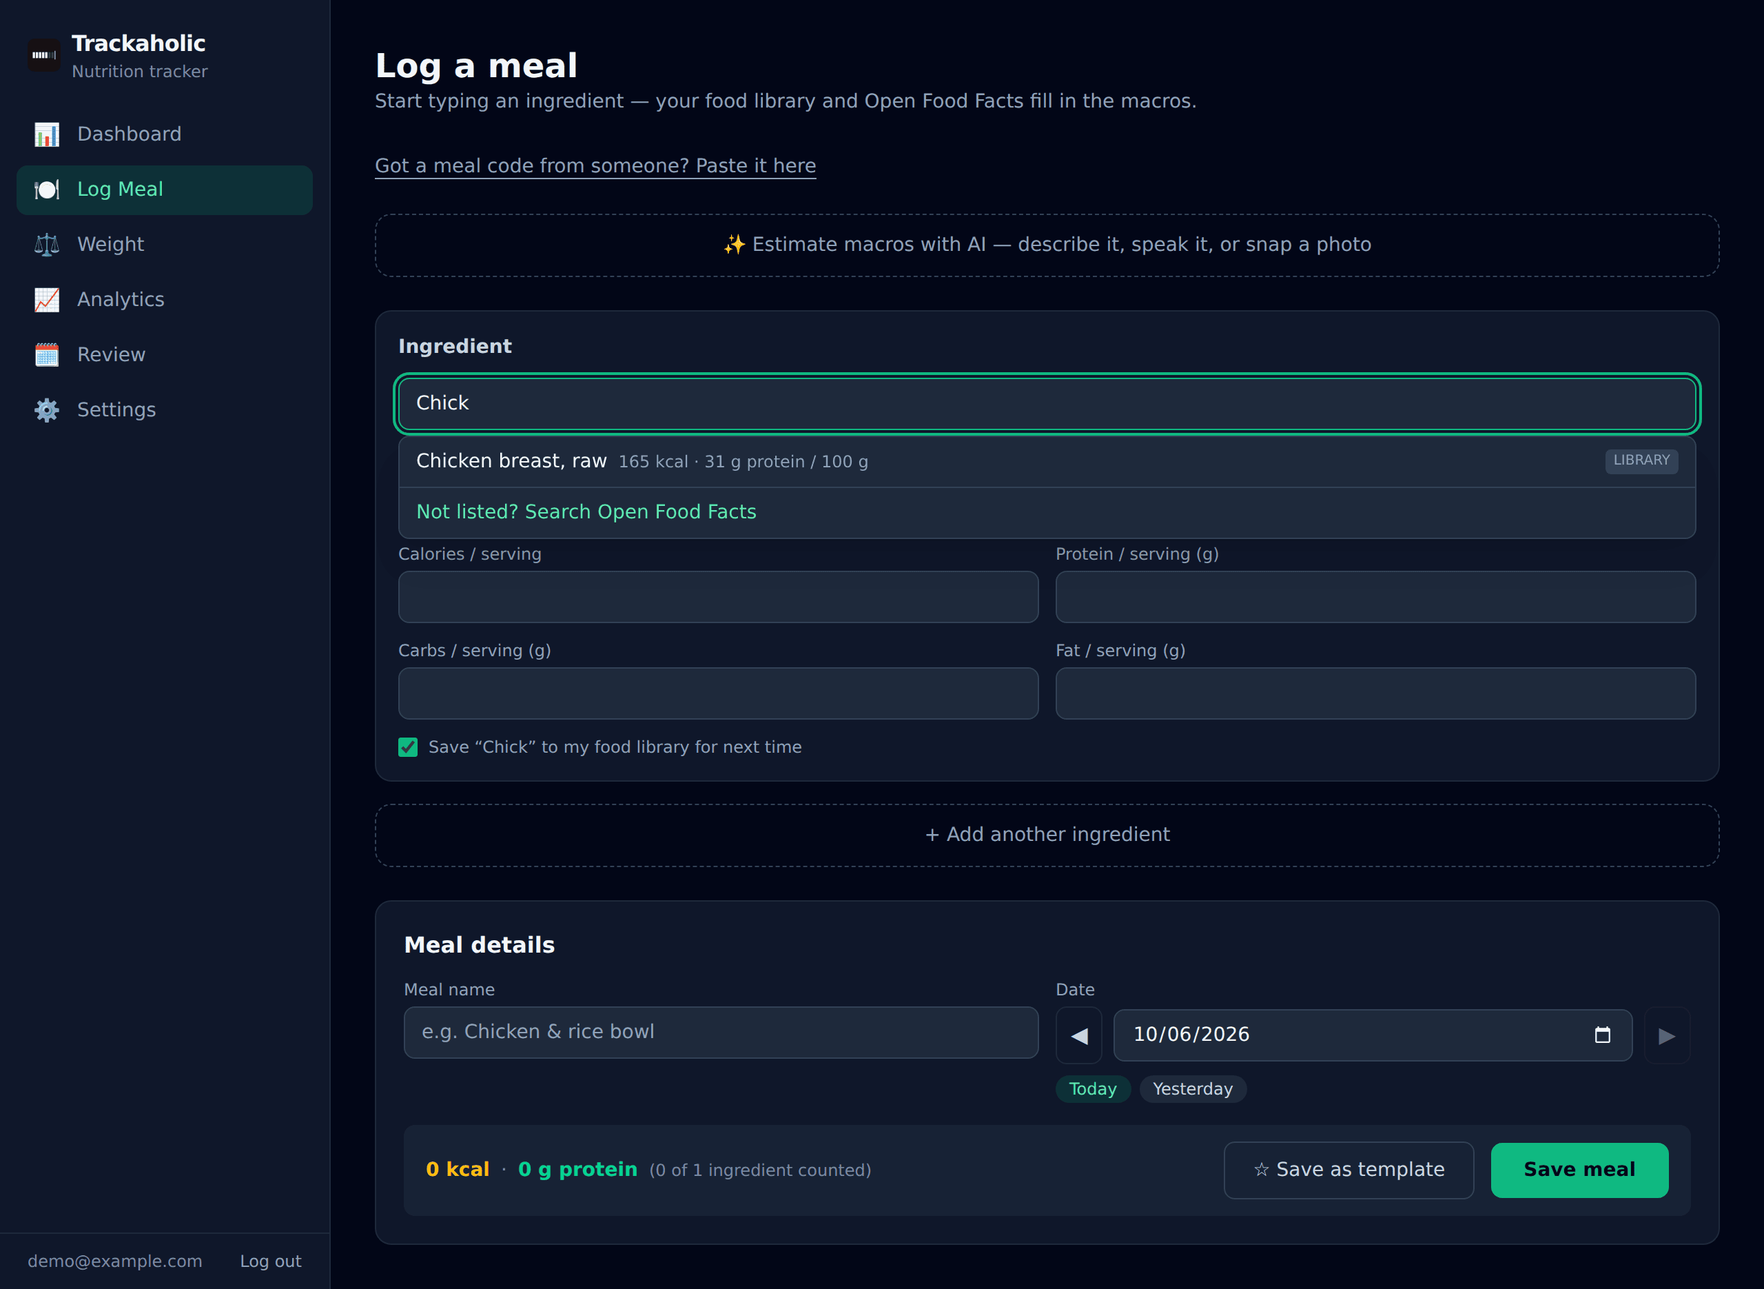
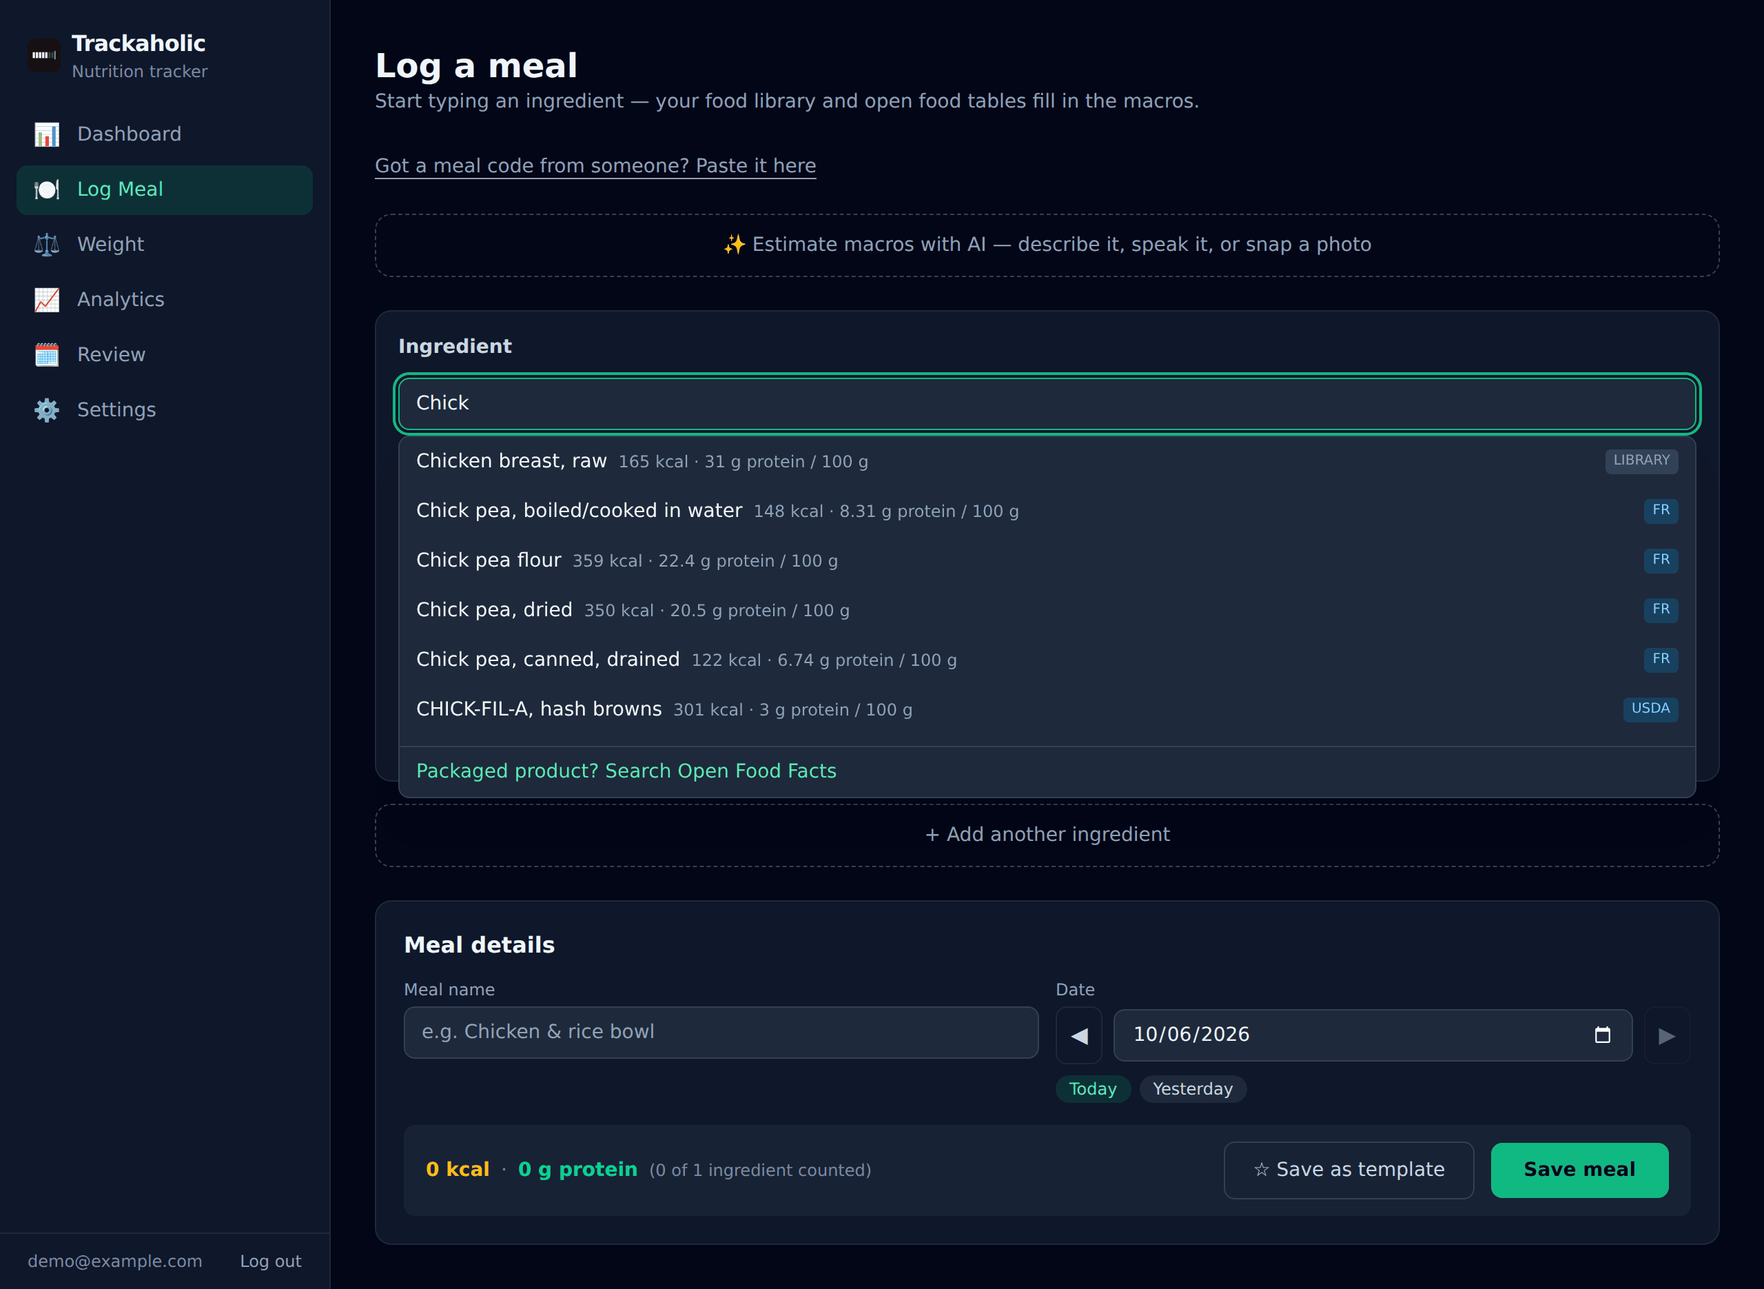
docs: describe the food-table search, and retake the log-meal shots
The README's feature list, intro and log-meal caption now describe the
three-tier search: the library and five national food tables as you
type, Open Food Facts on request. Library bullets that said OFF picks
are cached automatically say they were until October 2026; picks now
offer "save to library" unticked. A privacy bullet notes that search
text is kept out of the logs.

New "Food data sources" section with each table's publisher, licence
and required credit. The architecture box, file tree and API table
(checked against the app's OpenAPI paths: 55 and 55) include the
reference search. Both log-meal screenshots are retaken, since the
dropdown now shows table rows and the new OFF wording.

diff --git a/README.md b/README.md
@@ -17,7 +17,7 @@ A full-stack, **multi-user** nutrition tracking app: a **React + TypeScript** da
 
 Sign up with an email and password and get your own private meal log, food library, goals, and AI analyses — every API endpoint is scoped to the authenticated user.
 
-Log meals by typing an ingredient name — macros auto-fill from your personal **food library**, with an **Open Food Facts** lookup as fallback for foods you haven't logged before. Or skip the form entirely: **describe your meal, record a voice note, or photograph it** — any one is enough — and let **AI estimate the macros** — with honest uncertainty ranges and editable assumptions — before you review and save. Track calories and protein (plus carbs and fat if you enable them), set daily goals, weigh in, and watch progress rings, trend charts and a computed weekly review update as you log.
+Log meals by typing an ingredient name — macros auto-fill as you type from your personal **food library** and from **five open national food tables** (USDA, UK, France, Australia, Canada), with an **Open Food Facts** lookup for packaged products. Or skip the form entirely: **describe your meal, record a voice note, or photograph it** — any one is enough — and let **AI estimate the macros** — with honest uncertainty ranges and editable assumptions — before you review and save. Track calories and protein (plus carbs and fat if you enable them), set daily goals, weigh in, and watch progress rings, trend charts and a computed weekly review update as you log.
 
 > **v2 rewrite:** this project started as a Streamlit app and was rebuilt with a decoupled frontend/backend architecture. The original app lives in [`legacy/`](legacy/).
 
@@ -30,6 +30,7 @@ Log meals by typing an ingredient name — macros auto-fill from your personal *
 - **Per-user everything**: meals, food library, saved meal templates, weight entries, water logs, step counts, supplements and their check-offs, calorie plans, goals/settings, and AI analyses are isolated per account — enforced on every query, verified by a dedicated cross-tenant test suite
 - **Layered AI quotas**: 12 analyses + 16 voice notes + 3 review summaries per user per day, under a **global ceiling** of 40 calls/day across every account — sized for Gemini's free tier of 20 requests a day per model, and checked against the heaviest real user's busiest days. The per-user caps stop one person using up the shared quota, the global one stops mass signups draining it (or running up a bill on a paid key). All of them are env-tunable
 - **What the AI sees**: your photos, voice note and description are sent to Google Gemini to estimate the meal, and the app says so beside the Analyze button. Photos are shrunk on your phone first, which also strips their location data, and only the text of the estimate is kept: the photo and audio are discarded. On Gemini's free tier, Google may use what it is sent to improve its products
+- **What you search for is not logged**: the food searches send what you type as a URL parameter, and both the server's access log and its outgoing-request log blank that value before writing the line. The app's own log lines count results and time them, never the text
 - **Own your data**: change your password (revokes all previously issued tokens), download everything as JSON, or permanently delete your account from Settings
 - **Password reset by email — built, deployed, and switched off.** The endpoints, the single-use link (hashed at rest, valid an hour, revoking every session when used) and 38 tests are all here and running in production. They answer **503 to every address**, because no email provider is configured — three free providers were tried and all three refused a domainless free account, which is the profile their fraud screening targets. Until one is wired up **a forgotten password means a lost account**, and the signup page says so rather than letting you find out later. Nothing about the feature needs a deploy to switch on; it activates on credentials alone
 
@@ -59,11 +60,13 @@ Log meals by typing an ingredient name — macros auto-fill from your personal *
 - **Spends the daily AI allowance carefully.** Google's free tier turned out to be 20 requests a day *per model* for the whole app, counting failed attempts, about 25 times less than the app had been configured for. So each action makes at most a few attempts, and starts another only if there is still time for it to answer. A model that is out for the day is skipped, by reading Google's structured quota error rather than its wording, and the next model, which has a quota of its own, is asked straight away. When the day's AI really is gone, the message says when it comes back instead of "try again in a minute"
 
 ### 🍽 Smart meal logging
-- **Type-ahead food search**: ingredients you've logged before auto-fill their macros from your personal food library
-- **Open Food Facts fallback**: unknown foods can be looked up in the public OFF database (per-serving macros normalized automatically) and are cached locally for next time
-- **A food library you can edit**, not just accumulate — rename, correct or delete saved foods from Settings, filter by name, and sort by name or by when each one arrived. Correcting one that came from Open Food Facts makes it yours, so a later lookup can't overwrite your own numbers. Both lists show their first few rows with the rest a tap away, so the controls that act on them — the filter, and adding a food by hand — stay on the first screen instead of sitting below everything you have ever saved
-- **Every saved food is comparable, whatever it was saved against.** Macros are stored per the food's own serving size, which is what the packet says and useless for comparing two of them — 108 kcal per 90 g and 70 kcal per 50 g are the same food twice, and nothing about those two lines says so. Any row that is not already per 100 g now shows what it works out to, and a **Per 100 g** button rewrites it that way for good: it previews the figures first, and it **keeps the Open Food Facts badge**, because a rescale is the same claim in different units and corrects nothing
-- **It tells you when you have saved the same food twice.** The library fills itself up on its own — every Open Food Facts pick is cached, every ticked ingredient saved — so the same thing arrives under names nobody chose to make match. A pair is flagged only when the names overlap **and** the per-100 g calories and protein are close, because names alone would call "chicken breast" and "chicken thigh" duplicates. And it argues rather than acts: both rows are put side by side in the same units so you can see why, every delete is yours, and "not a duplicate" makes it stop asking
+- **Type-ahead food search, three tiers deep**: your own food library first, then **26,000 generic foods from five open national food tables** — USDA FoodData Central, the UK's CoFID, France's Ciqual, Australia's AFCD and the Canadian Nutrient File — both as you type. A new account with an empty library still finds "apple", "lentils" or "basmati rice" on the first keystrokes. Every row is badged with where its figures come from, per 100 g, and carbs are shown **without fibre** in every table, converted where a table publishes them with it
+- **Ranked for plain ingredients, not dishes**: the tables are searched in memory on the server with ranking of its own, because USDA's search API put croissants first for "green apple". "Apples, raw" beats "Croissants, apple", "Egg, fried" beats "Fried eggplant", a few regional and British names are understood ("arabic bread" finds pita, "moong dal" finds mung beans, "aubergine" finds eggplant), and a query no row fully matches falls back to its last word. Measured against 25 of the author's own everyday foods, **the plain food is in the top 3 for 92%**, and CI fails if a change drops that below 90%
+- **Open Food Facts for packaged products**, on request: one tap searches the public OFF database (per-serving macros normalized automatically). It is a button rather than part of the type-ahead because it is a slower third-party call on a shared rate limit
+- **Nothing is saved behind your back**: picking a table or Open Food Facts result fills the ingredient and offers "save to my food library", unticked. Saved, it keeps its source badge; change any of its numbers first and it is saved as yours
+- **A food library you can edit**, not just accumulate — rename, correct or delete saved foods from Settings, filter by name, and sort by name or by when each one arrived. Correcting one that came from Open Food Facts or a food table makes it yours, so the badge never claims figures you changed. Both lists show their first few rows with the rest a tap away, so the controls that act on them — the filter, and adding a food by hand — stay on the first screen instead of sitting below everything you have ever saved
+- **Every saved food is comparable, whatever it was saved against.** Macros are stored per the food's own serving size, which is what the packet says and useless for comparing two of them — 108 kcal per 90 g and 70 kcal per 50 g are the same food twice, and nothing about those two lines says so. Any row that is not already per 100 g now shows what it works out to, and a **Per 100 g** button rewrites it that way for good: it previews the figures first, and it **keeps the food's source badge**, because a rescale is the same claim in different units and corrects nothing
+- **It tells you when you have saved the same food twice.** The library fills up with little thought per entry — every ticked ingredient is saved, and Open Food Facts picks were cached automatically until October 2026 — so the same thing arrives under names nobody chose to make match. A pair is flagged only when the names overlap **and** the per-100 g calories and protein are close, because names alone would call "chicken breast" and "chicken thigh" duplicates. And it argues rather than acts: both rows are put side by side in the same units so you can see why, every delete is yours, and "not a duplicate" makes it stop asking
 - **Saved meals**: store a meal you eat often and re-log it in one tap from the dashboard
 - **Recently logged**: the dashboard offers the meals you actually logged recently, so anything you have eaten before can be re-logged without retyping it. It is the counterpart to saved meals rather than a duplicate of them — a saved meal had to be stored in advance, while this needs no forethought at all, which is the case it exists for. The list is one entry per meal *name*, carrying the most recent version of it and the day that came from, so logging “Breakfast” every morning does not fill the card with six Breakfasts. Tapping one opens the log form filled in, so the portion is still yours to change before it is saved. Meals you have already logged on the day you are looking at are moved to the end of the list rather than dropped from it — you can still have the same thing twice, but the card leads with what you have not had yet
 - **Share a meal by code**: turn a meal or a saved template into a short code, hand it to someone, and they get an **editable copy in their own account**. The code is a self-contained encoded payload — there is no shared row, no invite, nothing to revoke, and no account id inside it, so per-user isolation is untouched by the feature existing
@@ -173,7 +176,7 @@ Nothing is saved until you have looked at it. Ingredients arrive as ordinary row
 
 ### Log a meal
 
-Type an ingredient and your food library fills in the macros, with an Open Food Facts lookup behind it for anything you have not logged before.
+Type an ingredient and your food library fills in the macros, with generic foods from the national food tables listed under it as you type, and an Open Food Facts lookup for packaged products.
 
 <table>
 <tr><th align="center">Desktop</th><th align="center">Phone</th></tr>
@@ -292,8 +295,10 @@ icon, with a dark splash screen while it starts.
 ┌─────────────────────┐         ┌──────────────────────┐        ┌─────────────────┐
 │  React SPA / PWA    │  HTTP   │  FastAPI REST API    │        │ Open Food Facts │
 │  Tailwind, Recharts ├────────►│  /api/auth /meals    ├───────►│  public API     │
-│  React Router       │ Bearer  │  /foods /ai ...      │  httpx │  (fallback)     │
-└─────────────────────┘  JWT    └──────┬────────┬──────┘        └─────────────────┘
+│  React Router       │ Bearer  │  /foods /ai ...      │  httpx │  (packaged)     │
+└─────────────────────┘  JWT    │ + 5 food tables, in  │        └─────────────────┘
+                                │   memory (26k foods) │
+                                └──────┬────────┬──────┘
                                        │SQLAlchemy  google-genai ┌─────────────────┐
                                 ┌──────▼──────┐ └───────────────►│ Gemini 3.5 Flash│
                                 │  PostgreSQL │ users · meals    │ (meal analysis) │
@@ -325,6 +330,8 @@ Trackaholic
 │   │   ├── review.py            # the weekly review's arithmetic: eight checks, each with its own window
 │   │   ├── share.py             # the meal-code codec (a self-contained payload; no table)
 │   │   ├── announcements.py     # committed release notes + an env-var status banner
+│   │   ├── reference_foods.py   # the national food tables: loaded once, searched and ranked in memory
+│   │   ├── data/reference/      # one CSV per table (USDA, CoFID, Ciqual, AFCD, CNF) + NOTICE.md credits
 │   │   ├── routers/             # auth, meals, meal_templates, share, foods, weights, analytics,
 │   │   │                        #   settings, data (CSV/JSON), ai, water, steps, plan,
 │   │   │                        #   supplements, review, announcements, admin
@@ -334,6 +341,7 @@ Trackaholic
 │   │       └── email.py         # password-reset email (the only Brevo-aware module; switched off)
 │   ├── alembic/                 # database migrations (Postgres)
 │   ├── scripts/                 # smoke_multiuser.py — the live two-account isolation check
+│   │                            # reference/ — build_<table>.py per food table, and ranking_report.py
 │   │                            # delete_account_by_email.py — ops: remove an account whose password is gone
 │   │                            # compare_estimates.py — same photos through the real model in
 │   │                            #   several variants (sizes, models), against its own noise
@@ -355,7 +363,8 @@ Trackaholic
 │       ├── lib/                 # dates, parse, limits (mirrors the server's bounds), units,
 │       │                        #   chartTheme (one place for every recharts colour), libraryMatch,
 │       │                        #   photoSize + photoDownscale (shrink photos before upload),
-│       │                        #   analysisInputs (is a re-run of an estimate unchanged?)
+│       │                        #   analysisInputs (is a re-run of an estimate unchanged?),
+│       │                        #   foodSources (source badges, credits, the edited-number rule)
 │       └── pages/               # Dashboard, LogMeal, Weight, Analytics, Review, Admin,
 │                                #   WhatsNew, settings/ (five tab panels), and the four auth pages
 ├── docs/                        # AI provider runbook, the Gemini EEA-region incident write-up,
@@ -640,7 +649,7 @@ to anything else. That failure looks like a network error and never reaches the 
 
 ## 🔌 API overview
 
-54 paths. All of them require an `Authorization: Bearer <token>` header and operate
+55 paths. All of them require an `Authorization: Bearer <token>` header and operate
 only on the caller's data, except these public ones: `/api/health`,
 `/api/announcements`, `/api/auth/signup|login`, and
 `/api/auth/forgot-password|reset-password`.
@@ -671,6 +680,7 @@ only on the caller's data, except these public ones: `/api/health`,
 | POST | `/api/foods/{id}/normalize` | Rescale one food's macros to per 100 g, keeping its provenance |
 | GET | `/api/foods/duplicates` | Pairs of saved foods that look like the same thing twice |
 | GET | `/api/foods/search?q=` | Autocomplete over the local food library |
+| GET | `/api/foods/reference?q=` | Generic foods from the five national tables, per 100 g, ranked |
 | GET | `/api/foods/lookup?q=` | Open Food Facts search (normalized per serving) |
 | GET | `/api/share/meal/{id}` | Encode one of your meals as a shareable code |
 | GET | `/api/share/template/{id}` | Encode a saved meal as a shareable code |
@@ -738,6 +748,21 @@ only on the caller's data, except these public ones: `/api/health`,
   first, because a scanner that misses most products is worse than no scanner
 - Frontend component tests (Vitest + Testing Library) — DOM-free logic has had
   `npm test` since the photo-downscaling work; components still have none
+
+---
+
+## 🥕 Food data sources
+
+The generic foods in the search come from open national food-composition tables, used under their licences and credited here and in the app (Settings → Library). Each was reduced to energy, protein, carbohydrate, fat and fibre per 100 g, with carbohydrate shown **excluding fibre** — subtracted where a table publishes it included. Full credits and every change made are in [`backend/app/data/reference/NOTICE.md`](backend/app/data/reference/NOTICE.md). None of these organisations endorses this app.
+
+| Table | Publisher | Licence |
+|---|---|---|
+| [FoodData Central](https://fdc.nal.usda.gov/) (Foundation, SR Legacy, FNDDS) | U.S. Department of Agriculture, Agricultural Research Service | Public domain (CC0 1.0) |
+| [CoFID 2021](https://www.gov.uk/government/publications/composition-of-foods-integrated-dataset-cofid) — McCance and Widdowson's The Composition of Foods Integrated Dataset | Public Health England. Contains public sector information licensed under the Open Government Licence v3.0 | [OGL v3.0](https://www.nationalarchives.gov.uk/doc/open-government-licence/version/3/) |
+| [Ciqual 2025](https://ciqual.anses.fr/) — Anses. 2025. Table de composition nutritionnelle des aliments Ciqual | ANSES | [Licence Ouverte](https://www.etalab.gouv.fr/licence-ouverte-open-licence/) |
+| [AFCD Release 3](https://www.foodstandards.gov.au/science-data/food-nutrient-databases/afcd) — Australian Food Composition Database | Food Standards Australia New Zealand (2025) | [CC BY 2.5 AU](https://creativecommons.org/licenses/by/2.5/au/) |
+| [Canadian Nutrient File 2015](https://www.canada.ca/en/health-canada/services/food-nutrition/healthy-eating/nutrient-data.html) | Health Canada | [OGL – Canada](https://open.canada.ca/en/open-government-licence-canada) |
+| [Open Food Facts](https://world.openfoodfacts.org/) (packaged products, searched live) | Open Food Facts contributors | [ODbL](https://opendatacommons.org/licenses/odbl/1-0/) |
 
 ---
 
